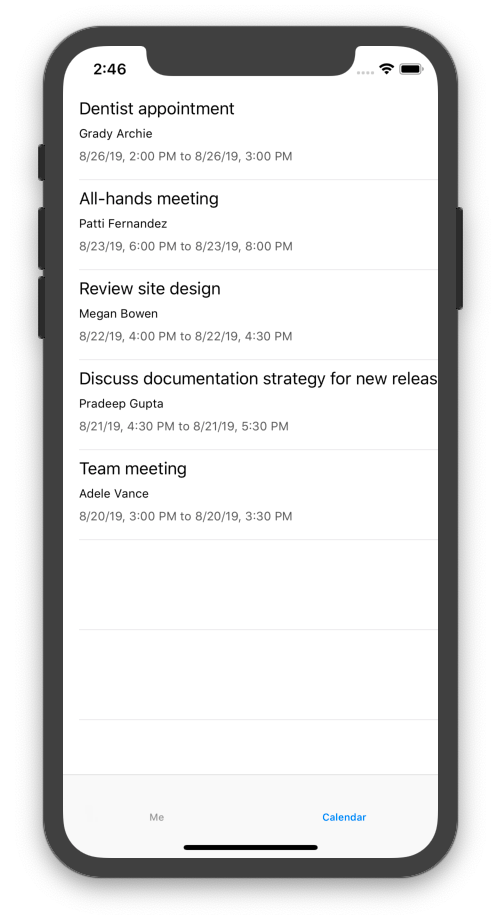
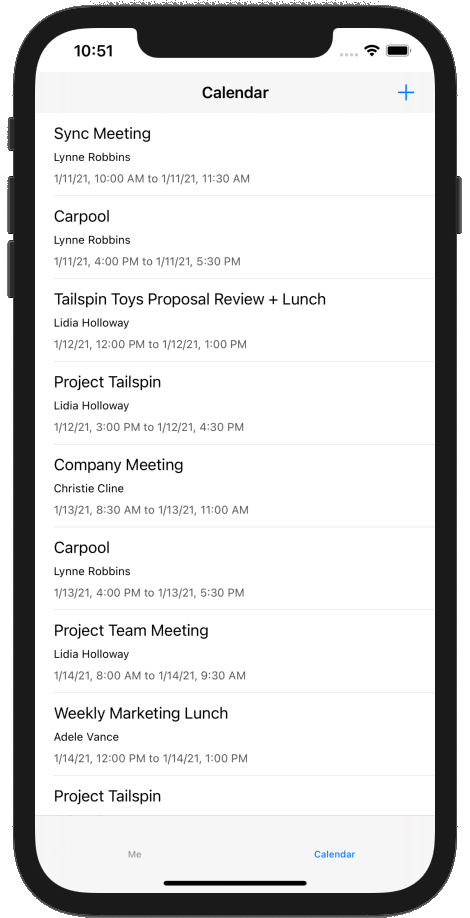
Completed get calendar view step

diff --git a/tutorial/05-add-ms-graph.md b/tutorial/05-add-ms-graph.md
@@ -4,35 +4,51 @@ In this exercise you will incorporate the Microsoft Graph into the application. 
 
 ## Get calendar events from Outlook
 
-In this section you will extend the `GraphManager` class to add a function to get the user's events and update `CalendarViewController` to use these new functions.
+In this section you will extend the `GraphManager` class to add a function to get the user's events for the current week and update `CalendarViewController` to use this new function.
 
 1. Open **GraphManager.h** and add the following code above the `@interface` declaration.
 
     ```objc
-    typedef void (^GetEventsCompletionBlock)(NSData* _Nullable data, NSError* _Nullable error);
+    typedef void (^GetCalendarViewCompletionBlock)(NSData* _Nullable data, NSError* _Nullable error);
     ```
 
 1. Add the following code to the `@interface` declaration.
 
     ```objc
-    - (void) getEventsWithCompletionBlock: (GetEventsCompletionBlock)completionBlock;
+    - (void) getCalendarViewStartingAt: (NSString*)viewStart endingAt:(NSString*) viewEnd withCompletionBlock:(GetCalendarViewCompletionBlock)completion;
     ```
 
 1. Open **GraphManager.m** and add the following function to the `GraphManager` class.
 
     ```objc
-    - (void) getEventsWithCompletionBlock:(GetEventsCompletionBlock)completionBlock {
-        // GET /me/events?$select='subject,organizer,start,end'$orderby=createdDateTime DESC
+    - (void) getCalendarViewStartingAt:(NSString *)viewStart endingAt:(NSString *)viewEnd withCompletionBlock:(GetCalendarViewCompletionBlock)completion {
+        // Set calendar view start and end parameters
+        NSString* viewStartEndString =
+        [NSString stringWithFormat:@"startDateTime=%@&endDateTime=%@",
+         viewStart,
+         viewEnd];
+
+        // GET /me/calendarview
         NSString* eventsUrlString =
-        [NSString stringWithFormat:@"%@/me/events?%@&%@",
+        [NSString stringWithFormat:@"%@/me/calendarview?%@&%@&%@&%@",
          MSGraphBaseURL,
+         viewStartEndString,
          // Only return these fields in results
          @"$select=subject,organizer,start,end",
-         // Sort results by when they were created, newest first
-         @"$orderby=createdDateTime+DESC"];
+         // Sort results by start time
+         @"$orderby=start/dateTime",
+         // Request at most 25 results
+         @"$top=25"];
 
         NSURL* eventsUrl = [[NSURL alloc] initWithString:eventsUrlString];
         NSMutableURLRequest* eventsRequest = [[NSMutableURLRequest alloc] initWithURL:eventsUrl];
+
+        // Add the Prefer: outlook.timezone header to get start and end times
+        // in user's time zone
+        NSString* preferHeader =
+        [NSString stringWithFormat:@"outlook.timezone=\"%@\"",
+         self.graphTimeZone];
+        [eventsRequest addValue:preferHeader forHTTPHeaderField:@"Prefer"];
 
         MSURLSessionDataTask* eventsDataTask =
         [[MSURLSessionDataTask alloc]
@@ -40,12 +56,12 @@ In this section you will extend the `GraphManager` class to add a function to ge
          client:self.graphClient
          completion:^(NSData *data, NSURLResponse *response, NSError *error) {
              if (error) {
-                 completionBlock(nil, error);
+                 completion(nil, error);
                  return;
              }
 
              // TEMPORARY
-             completionBlock(data, nil);
+             completion(data, nil);
          }];
 
         // Execute the request
@@ -54,11 +70,23 @@ In this section you will extend the `GraphManager` class to add a function to ge
     ```
 
     > [!NOTE]
-    > Consider what the code in `getEventsWithCompletionBlock` is doing.
+    > Consider what the code in `getCalendarViewStartingAt` is doing.
     >
-    > - The URL that will be called is `/v1.0/me/events`.
-    > - The `select` query parameter limits the fields returned for each events to just those the app will actually use.
-    > - The `orderby` query parameter sorts the results by the date and time they were created, with the most recent item being first.
+    > - The URL that will be called is `/v1.0/me/calendarview`.
+    >   - The `startDateTime` and `endDateTime` query parameters define the start and end of the calendar view.
+    >   - The `select` query parameter limits the fields returned for each events to just those the view will actually use.
+    >   - The `orderby` query parameter sorts the results by start time.
+    >   - The `top` query parameter requests 25 results per page.
+    >   - the `Prefer: outlook.timezone` header causes the Microsoft Graph to return the start and end times of each event in the user's time zone.
+
+1. Create a new **Cocoa Touch Class** in the **GraphTutorial** project named **GraphToIana**. Choose **NSObject** in the **Subclass of** field.
+1. Open **GraphToIana.h** and replace its contents with the following code.
+
+    :::code language="objc" source="../demo/GraphTutorial/GraphTutorial/GraphToIana.h" id="GraphToIanaSnippet":::
+
+1. Open **GraphToIana.m** and replace its contents with the following code.
+
+    :::code language="objc" source="../demo/GraphTutorial/GraphTutorial/GraphToIana.m" id="GraphToIanaSnippet":::
 
 1. Open **CalendarViewController.m** and replace its entire contents with the following code.
 
@@ -66,6 +94,7 @@ In this section you will extend the `GraphManager` class to add a function to ge
     #import "CalendarViewController.h"
     #import "SpinnerViewController.h"
     #import "GraphManager.h"
+    #import "GraphToIana.h"
     #import <MSGraphClientModels/MSGraphClientModels.h>
 
     @interface CalendarViewController ()
@@ -83,8 +112,25 @@ In this section you will extend the `GraphManager` class to add a function to ge
         self.spinner = [SpinnerViewController alloc];
         [self.spinner startWithContainer:self];
 
+        // Calculate the start and end of the current week
+        NSString* timeZoneId = [GraphToIana getIanaIdentifierFromGraphIdentifier:[GraphManager.instance graphTimeZone]];
+
+        NSDate* now = [NSDate date];
+        NSCalendar* calendar = [NSCalendar calendarWithIdentifier:NSCalendarIdentifierGregorian];
+        NSTimeZone* timeZone = [NSTimeZone timeZoneWithName:timeZoneId];
+        [calendar setTimeZone:timeZone];
+
+        NSDateComponents* startOfWeekComponents = [calendar components:NSCalendarUnitCalendar | NSCalendarUnitYearForWeekOfYear | NSCalendarUnitWeekOfYear fromDate:now];
+        NSDate* startOfWeek = [startOfWeekComponents date];
+        NSDate* endOfWeek = [calendar dateByAddingUnit:NSCalendarUnitDay value:7 toDate:startOfWeek options:0];
+
+        // Convert start and end to ISO 8601 strings
+        NSISO8601DateFormatter* isoFormatter = [[NSISO8601DateFormatter alloc] init];
+        NSString* viewStart = [isoFormatter stringFromDate:startOfWeek];
+        NSString* viewEnd = [isoFormatter stringFromDate:endOfWeek];
+
         [GraphManager.instance
-         getEventsWithCompletionBlock:^(NSData * _Nullable data, NSError * _Nullable error) {
+         getCalendarViewStartingAt:viewStart endingAt:viewEnd withCompletionBlock:^(NSData * _Nullable data, NSError * _Nullable error) {
              dispatch_async(dispatch_get_main_queue(), ^{
                  [self.spinner stop];
 
@@ -119,19 +165,19 @@ In this section you will extend the `GraphManager` class to add a function to ge
 
 ## Display the results
 
-Now you can replace the JSON dump with something to display the results in a user-friendly manner. In this section, you will modify the `getEventsWithCompletionBlock` function to return strongly-typed objects, and modify `CalendarViewController` to use a table view to render the events.
+Now you can replace the JSON dump with something to display the results in a user-friendly manner. In this section, you will modify the `getCalendarViewStartingAt` function to return strongly-typed objects, and modify `CalendarViewController` to use a table view to render the events.
 
 ### Update getEvents
 
-1. Open **GraphManager.h**. Change the `GetEventsCompletionBlock` type definition to the following.
+1. Open **GraphManager.h**. Change the `GetCalendarViewCompletionBlock` type definition to the following.
 
     ```objc
-    typedef void (^GetEventsCompletionBlock)(NSArray<MSGraphEvent*>* _Nullable events, NSError* _Nullable error);
+    typedef void (^GetCalendarViewCompletionBlock)(NSArray<MSGraphEvent*>* _Nullable events, NSError* _Nullable error);
     ```
 
-1. Open **GraphManager.m**. Replace the `completionBlock(data, nil);` line in the `getEventsWithCompletionBlock` function with the following code.
+1. Open **GraphManager.m**. Replace the existing `getCalendarViewStartingAt` function with the following code.
 
-    :::code language="objc" source="../demo/GraphTutorial/GraphTutorial/GraphManager.m" id="GetEventsSnippet" highlight="24-43":::
+    :::code language="objc" source="../demo/GraphTutorial/GraphTutorial/GraphManager.m" id="GetCalendarViewSnippet" highlight="40-59":::
 
 ### Update CalendarViewController
 
@@ -144,12 +190,39 @@ Now you can replace the JSON dump with something to display the results in a use
 
     :::code language="objc" source="../demo/GraphTutorial/GraphTutorial/CalendarTableViewCell.m" id="CalendarTableCellSnippet":::
 
-1. Open **Main.storyboard** and locate the **Calendar Scene**. Select the **View** in the **Calendar Scene** and delete it.
+1. Create a new **Cocoa Touch Class** file in the **GraphTutorial** project named `CalendarTableViewController`. Choose **UITableViewController** in the **Subclass of** field.
+1. Open **CalendarTableViewController.h** and replace its contents with the following code.
 
-    ![A screenshot of the View in the Calendar Scene](./images/view-in-calendar-scene.png)
+    :::code language="objc" source="../demo/GraphTutorial/GraphTutorial/CalendarTableViewController.h" id="CalendarTableViewControllerSnippet":::
 
-1. Add a **Table View** from the **Library** to the **Calendar Scene**.
+1. Open **CalendarTableViewController.m** and replace its contents with the following code.
+
+    :::code language="objc" source="../demo/GraphTutorial/GraphTutorial/CalendarTableViewController.m" id="CalendarTableViewControllerSnippet":::
+
+1. Open **Main.storyboard** and locate the **Calendar Scene**. Delete the scroll view from the root view.
+1. Using the **Library**, add a **Navigation Bar** to the top of the view.
+1. Double-click the **Title** in the navigation bar and update it to `Calendar`.
+1. Using the **Library**, add a **Bar Button Item** to the right-hand side of the navigation bar.
+1. Select the new bar button, then select the **Attributes Inspector**. Change **Image** to **plus**.
+1. Add a **Container View** from the **Library** to the view under the navigation bar. Resize the container view to take all of the remaining space in the view.
+1. Set constraints on the navigation bar and container view as follows.
+
+    - **Navigation Bar**
+        - Add constraint: Height, value: 44
+        - Add constraint: Leading space to Safe Area, value: 0
+        - Add constraint: Trailing space to Safe Area, value: 0
+        - Add constraint: Top space to Safe Area, value: 0
+    - **Container View**
+        - Add constraint: Leading space to Safe Area, value: 0
+        - Add constraint: Trailing space to Safe Area, value: 0
+        - Add constraint: Top space to Navigation Bar Bottom, value: 0
+        - Add constraint: Bottom space to Safe Area, value: 0
+
+1. Locate the second view controller added to the storyboard when you added the container view. It is connected to the **Calendar Scene** by an embed segue. Select this controller and use the **Identity Inspector** to change **Class** to **CalendarTableViewController**.
+1. Delete the **View** from the **Calendar Table View Controller**.
+1. Add a **Table View** from the **Library** to the **Calendar Table View Controller**.
 1. Select the table view, then select the **Attributes Inspector**. Set **Prototype Cells** to **1**.
+1. Drag the bottom edge of the prototype cell to give you a larger area to work with.
 1. Use the **Library** to add three **Labels** to the prototype cell.
 1. Select the prototype cell, then select the **Identity Inspector**. Change **Class** to **CalendarTableViewCell**.
 1. Select the **Attributes Inspector** and set **Identifier** to `EventCell`.
@@ -162,29 +235,28 @@ Now you can replace the JSON dump with something to display the results in a use
         - Add constraint: Top space to Content View Top Margin, value: 0
     - **Organizer Label**
         - Font: System 12.0
+        - Add constraint: Height, value: 15
         - Add constraint: Leading space to Content View Leading Margin, value: 0
         - Add constraint: Trailing space to Content View Trailing Margin, value: 0
         - Add constraint: Top space to Subject Label Bottom, value: Standard
     - **Duration Label**
         - Font: System 12.0
         - Color: Dark Gray Color
+        - Add constraint: Height, value: 15
         - Add constraint: Leading space to Content View Leading Margin, value: 0
         - Add constraint: Trailing space to Content View Trailing Margin, value: 0
         - Add constraint: Top space to Organizer Label Bottom, value: Standard
-        - Add constraint: Bottom space to Content View Bottom Margin, value: 8
+        - Add constraint: Bottom space to Content View Bottom Margin, value: 0
 
-    ![A screenshot of the prototype cell layout](./images/prototype-cell-layout.png)
+1. Select the **EventCell**, then select the **Size Inspector**. Enable **Automatic** for **Row Height**.
+
+    ![A screenshot of the calendar and calendar table view controllers](images/calendar-table-storyboard.png)
 
 1. Open **CalendarViewController.h** and remove the `calendarJSON` property.
-1. Change the `@interface` declaration to the following.
-
-    ```objc
-    @interface CalendarViewController : UITableViewController
-    ```
 
 1. Open **CalendarViewController.m** and replace its contents with the following code.
 
-    :::code language="objc" source="../demo/GraphTutorial/GraphTutorial/CalendarViewController.m" id="CalendarViewSnippet":::
+    :::code language="objc" source="../demo/GraphTutorial/GraphTutorial/CalendarViewController.m" id="CalendarViewControllerSnippet":::
 
 1. Run the app, sign in, and tap the **Calendar** tab. You should see the list of events.
 

diff --git a/tutorial/04-add-aad-auth.md b/tutorial/04-add-aad-auth.md
@@ -110,7 +110,7 @@ In this section you will create a helper class to hold all of the calls to Micro
     @interface GraphManager : NSObject
 
     + (id) instance;
-    - (void) getMeWithCompletionBlock: (GetMeCompletionBlock)completionBlock;
+    - (void) getMeWithCompletionBlock: (GetMeCompletionBlock)completion;
 
     @end
 
@@ -150,7 +150,7 @@ In this section you will create a helper class to hold all of the calls to Micro
         return self;
     }
 
-    - (void) getMeWithCompletionBlock:(GetMeCompletionBlock)completionBlock {
+    - (void) getMeWithCompletionBlock:(GetMeCompletionBlock)completion {
         // GET /me
         NSString* meUrlString = [NSString stringWithFormat:@"%@/me?%@",
                                  MSGraphBaseURL,
@@ -164,7 +164,7 @@ In this section you will create a helper class to hold all of the calls to Micro
             client:self.graphClient
             completion:^(NSData *data, NSURLResponse *response, NSError *error) {
                 if (error) {
-                    completionBlock(nil, error);
+                    completion(nil, error);
                     return;
                 }
 
@@ -173,9 +173,9 @@ In this section you will create a helper class to hold all of the calls to Micro
                 MSGraphUser* user = [[MSGraphUser alloc] initWithData:data error:&graphError];
 
                 if (graphError) {
-                    completionBlock(nil, graphError);
+                    completion(nil, graphError);
                 } else {
-                    completionBlock(user, nil);
+                    completion(user, nil);
                 }
             }];
 
